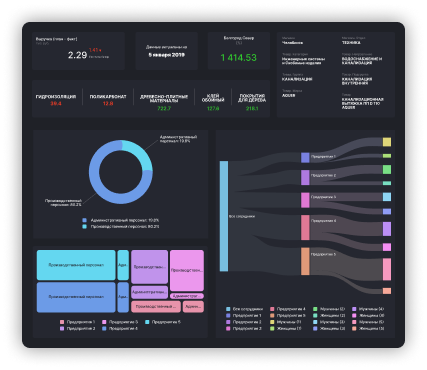
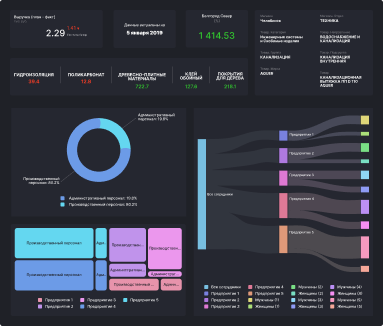
fix

diff --git a/css/style.css b/css/style.css
@@ -442,23 +442,31 @@ img {
   opacity: 0.8;
 }
 
-.main-screen__wrapper-img {
+.main-screen__wrapper-images {
   position: relative;
 
   width: 656px;
   height: 602px;
 }
 
-.main-screen__wrapper-img img:nth-child(1) {
+.main-screen__wrapper-img:nth-child(1) {
   position: absolute;
   top: 60px;
-  right: 0;
+  right: 3px;
 
   width: 218px;
   height: 159px;
 }
 
-.main-screen__wrapper-img img:nth-child(2) {
+.main-screen__wrapper-img:nth-child(1) img {
+  display: block;
+  width: 218px;
+  height: 159px;
+
+  border-radius: 8px;
+}
+
+.main-screen__wrapper-img:nth-child(2) {
   position: absolute;
   top: 239px;
   right: 0;
@@ -468,7 +476,15 @@ img {
   height: 212px;
 }
 
-.main-screen__wrapper-img img:nth-child(3) {
+.main-screen__wrapper-img:nth-child(2) img {
+  display: block;
+  width: 479px;
+  height: 212px;
+
+  border-radius: 8px;
+}
+
+.main-screen__wrapper-img:nth-child(3) {
   position: absolute;
   top: 0;
   left: 32px;
@@ -477,13 +493,29 @@ img {
   height: 326px;
 }
 
-.main-screen__wrapper-img img:nth-child(4) {
+.main-screen__wrapper-img:nth-child(3) img {
+  display: block;
+  width: 383px;
+  height: 326px;
+
+  border-radius: 8px;
+}
+
+.main-screen__wrapper-img:nth-child(4) {
   position: absolute;
   bottom: 0;
   left: 0;
 
   width: 479px;
   height: 217px;
+}
+
+.main-screen__wrapper-img:nth-child(4) img {
+  display: block;
+  width: 479px;
+  height: 217px;
+
+  border-radius: 8px;
 }
 
 /*----------Гибкая настройка ваших дашбордов-------------*/

diff --git a/index.html b/index.html
@@ -70,8 +70,8 @@
               <button type="button" class="button__main-screen">OК</button>
             </div>
           </div>
-          <div class="main-screen__wrapper-img">
-            <div>
+          <div class="main-screen__wrapper-images">
+            <div class="main-screen__wrapper-img">
               <img
                 src="img/main-screen-1.png"
                 width="218"
@@ -79,10 +79,30 @@
                 alt=""
               />
             </div>
-
-            <img src="img/main-screen-2.png" width="479" height="212" alt="" />
-            <img src="img/main-screen-3.png" width="383" height="326" alt="" />
-            <img src="img/main-screen-4.png" width="479" height="217" alt="" />
+            <div class="main-screen__wrapper-img">
+              <img
+                src="img/main-screen-2.png"
+                width="479"
+                height="212"
+                alt=""
+              />
+            </div>
+            <div class="main-screen__wrapper-img">
+              <img
+                src="img/main-screen-3.png"
+                width="383"
+                height="326"
+                alt=""
+              />
+            </div>
+            <div class="main-screen__wrapper-img">
+              <img
+                src="img/main-screen-4.png"
+                width="479"
+                height="217"
+                alt=""
+              />
+            </div>
           </div>
         </div>
       </div>
